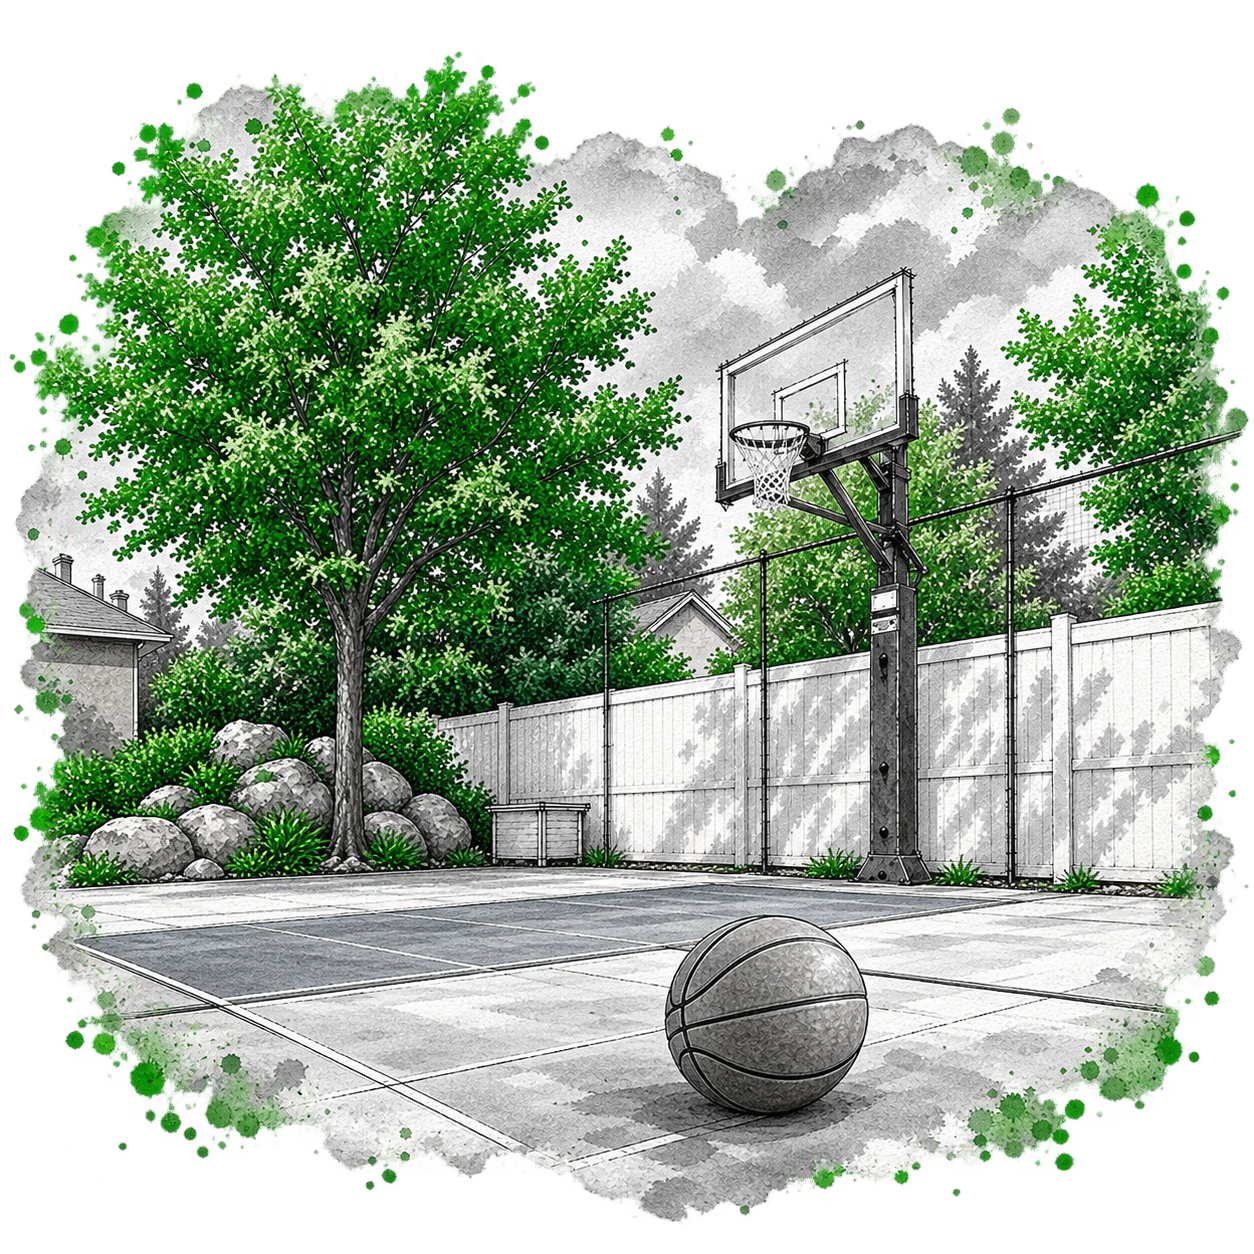
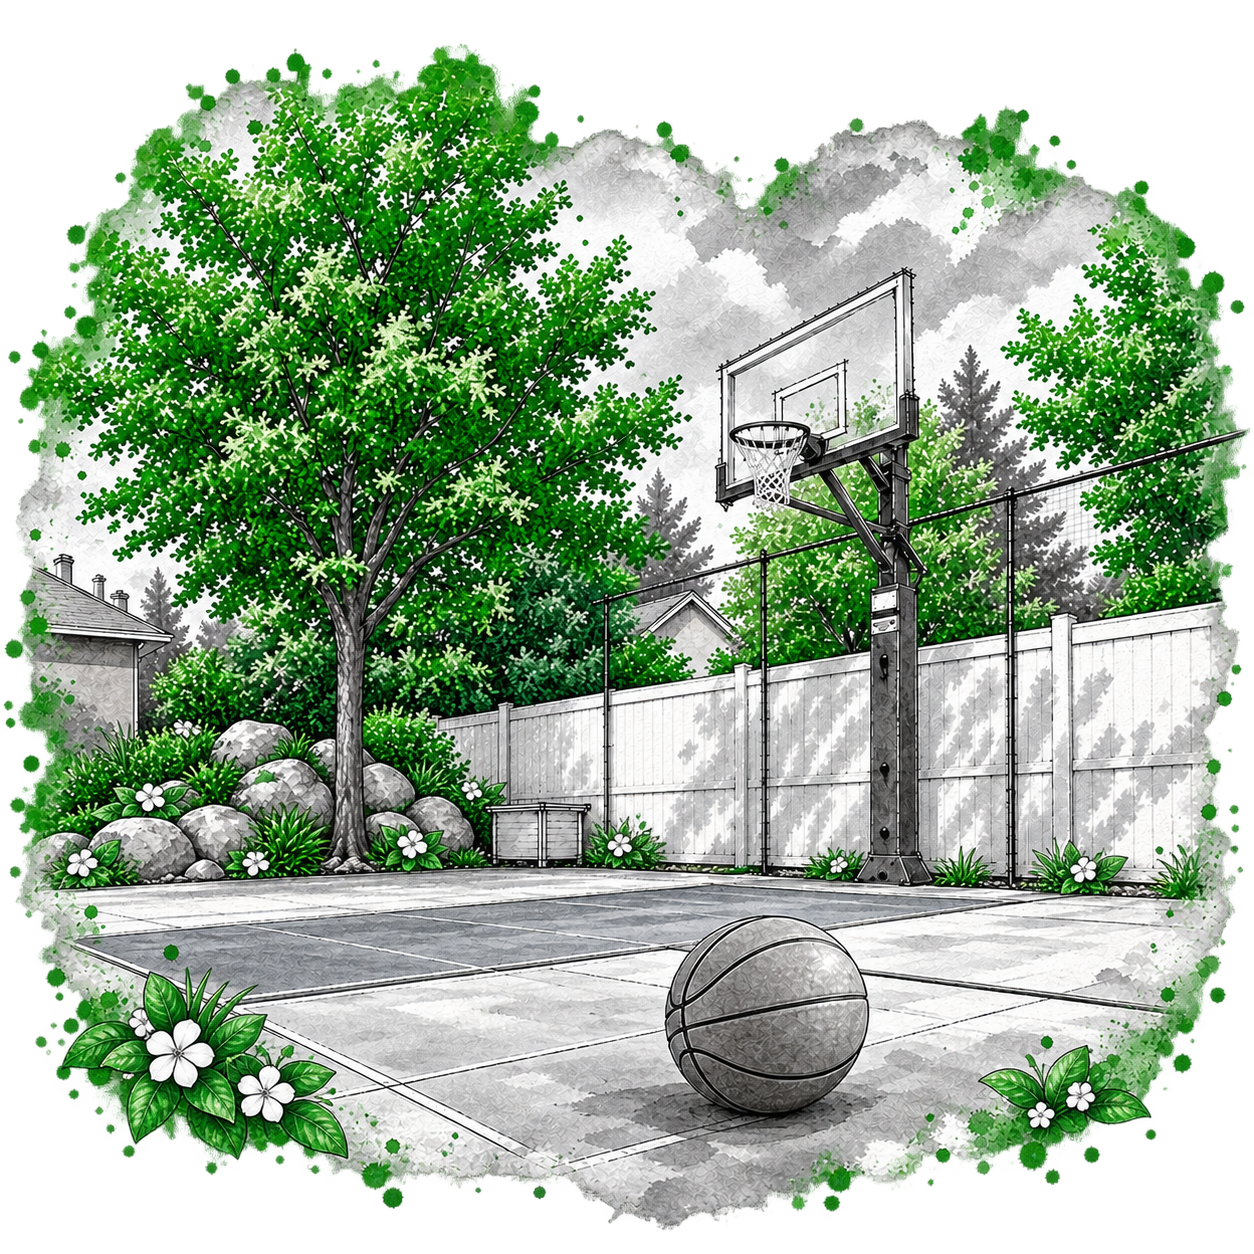
Milos BG ✿

diff --git a/app/(root)/the-background/page.tsx b/app/(root)/the-background/page.tsx
@@ -98,7 +98,7 @@ const AboutUs = () => {
               {/* Intro */}
               <p className="mt-8 max-w-xl text-sm leading-7 text-mbg-darkgrey md:text-[15px]">
                 Born in a modest studio, Milos BG has always stood by one
-                uncompromising principle:
+                uncompromising principle,
                 <strong className="font-semibold text-mbg-black">
                   {" "}
                   quality and craftsmanship above all else.
